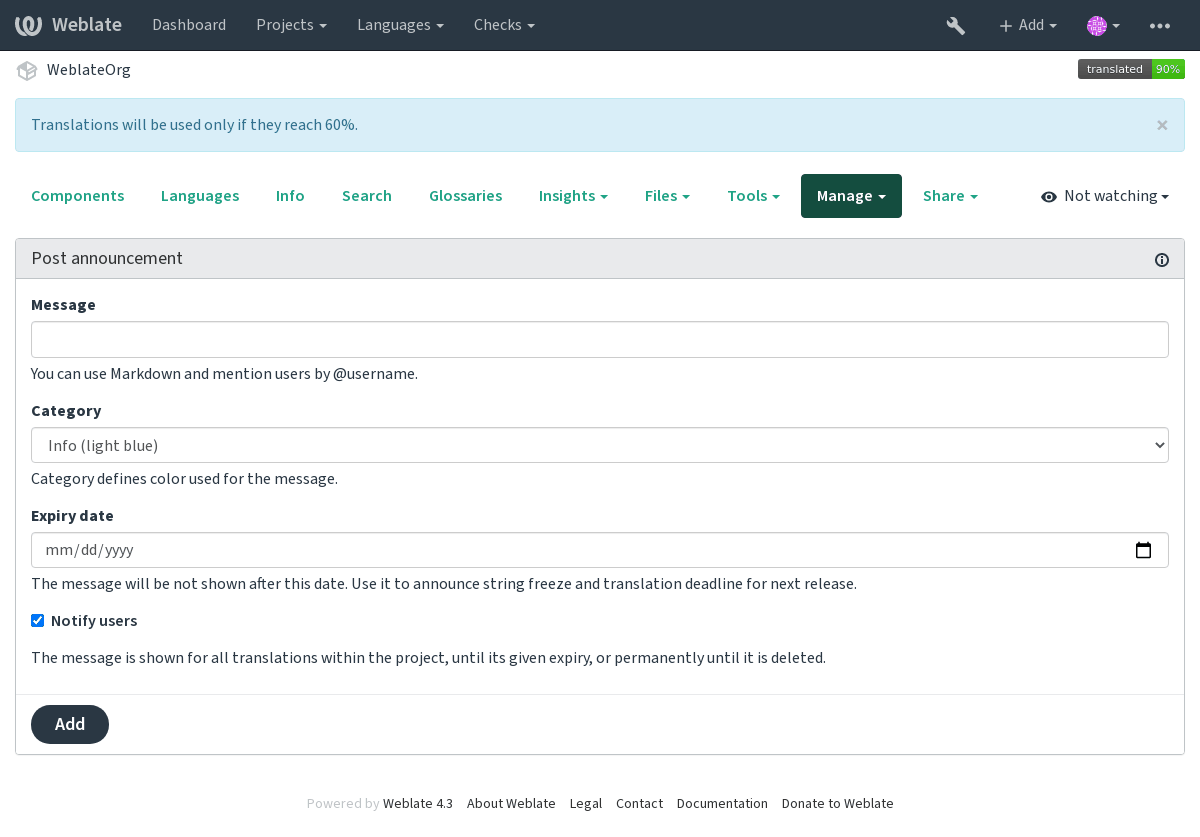
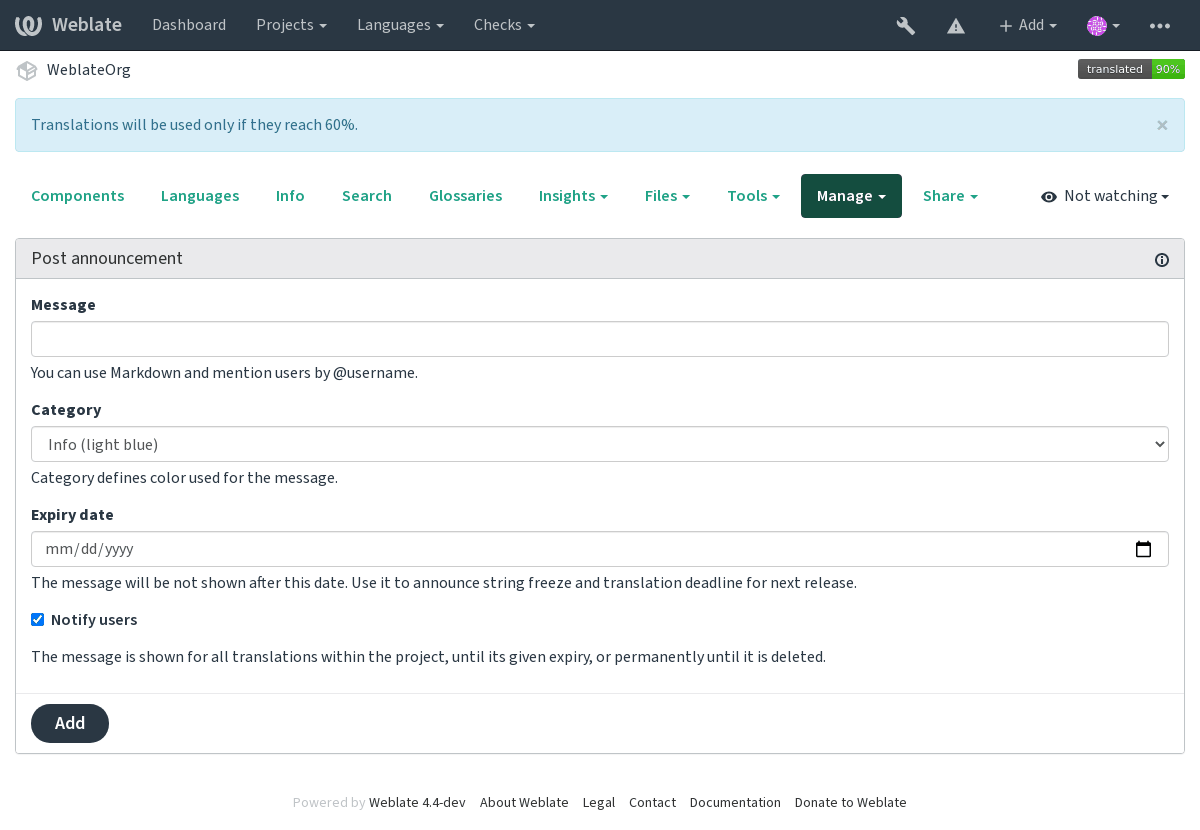
Docs: Make sure admin screenshots show configuration error
It is described in the docs, but the screenshot did not show it.

diff --git a/weblate/trans/tests/test_selenium.py b/weblate/trans/tests/test_selenium.py
@@ -57,6 +57,7 @@ from weblate.trans.tests.utils import (
     get_test_file,
 )
 from weblate.vcs.ssh import get_key_data
+from weblate.wladmin.models import ConfigurationError
 
 TEST_BACKENDS = (
     "social_core.backends.email.EmailAuth",
@@ -568,6 +569,9 @@ class SeleniumTests(BaseLiveServerTestCase, RegistrationTestMixin, TempDirMixin)
 
     def test_admin(self):
         """Test admin interface."""
+        ConfigurationError.objects.create(
+            name="test", message="Testing configuration error"
+        )
         self.do_login(superuser=True)
         self.screenshot("admin-wrench.png")
         self.create_component()
